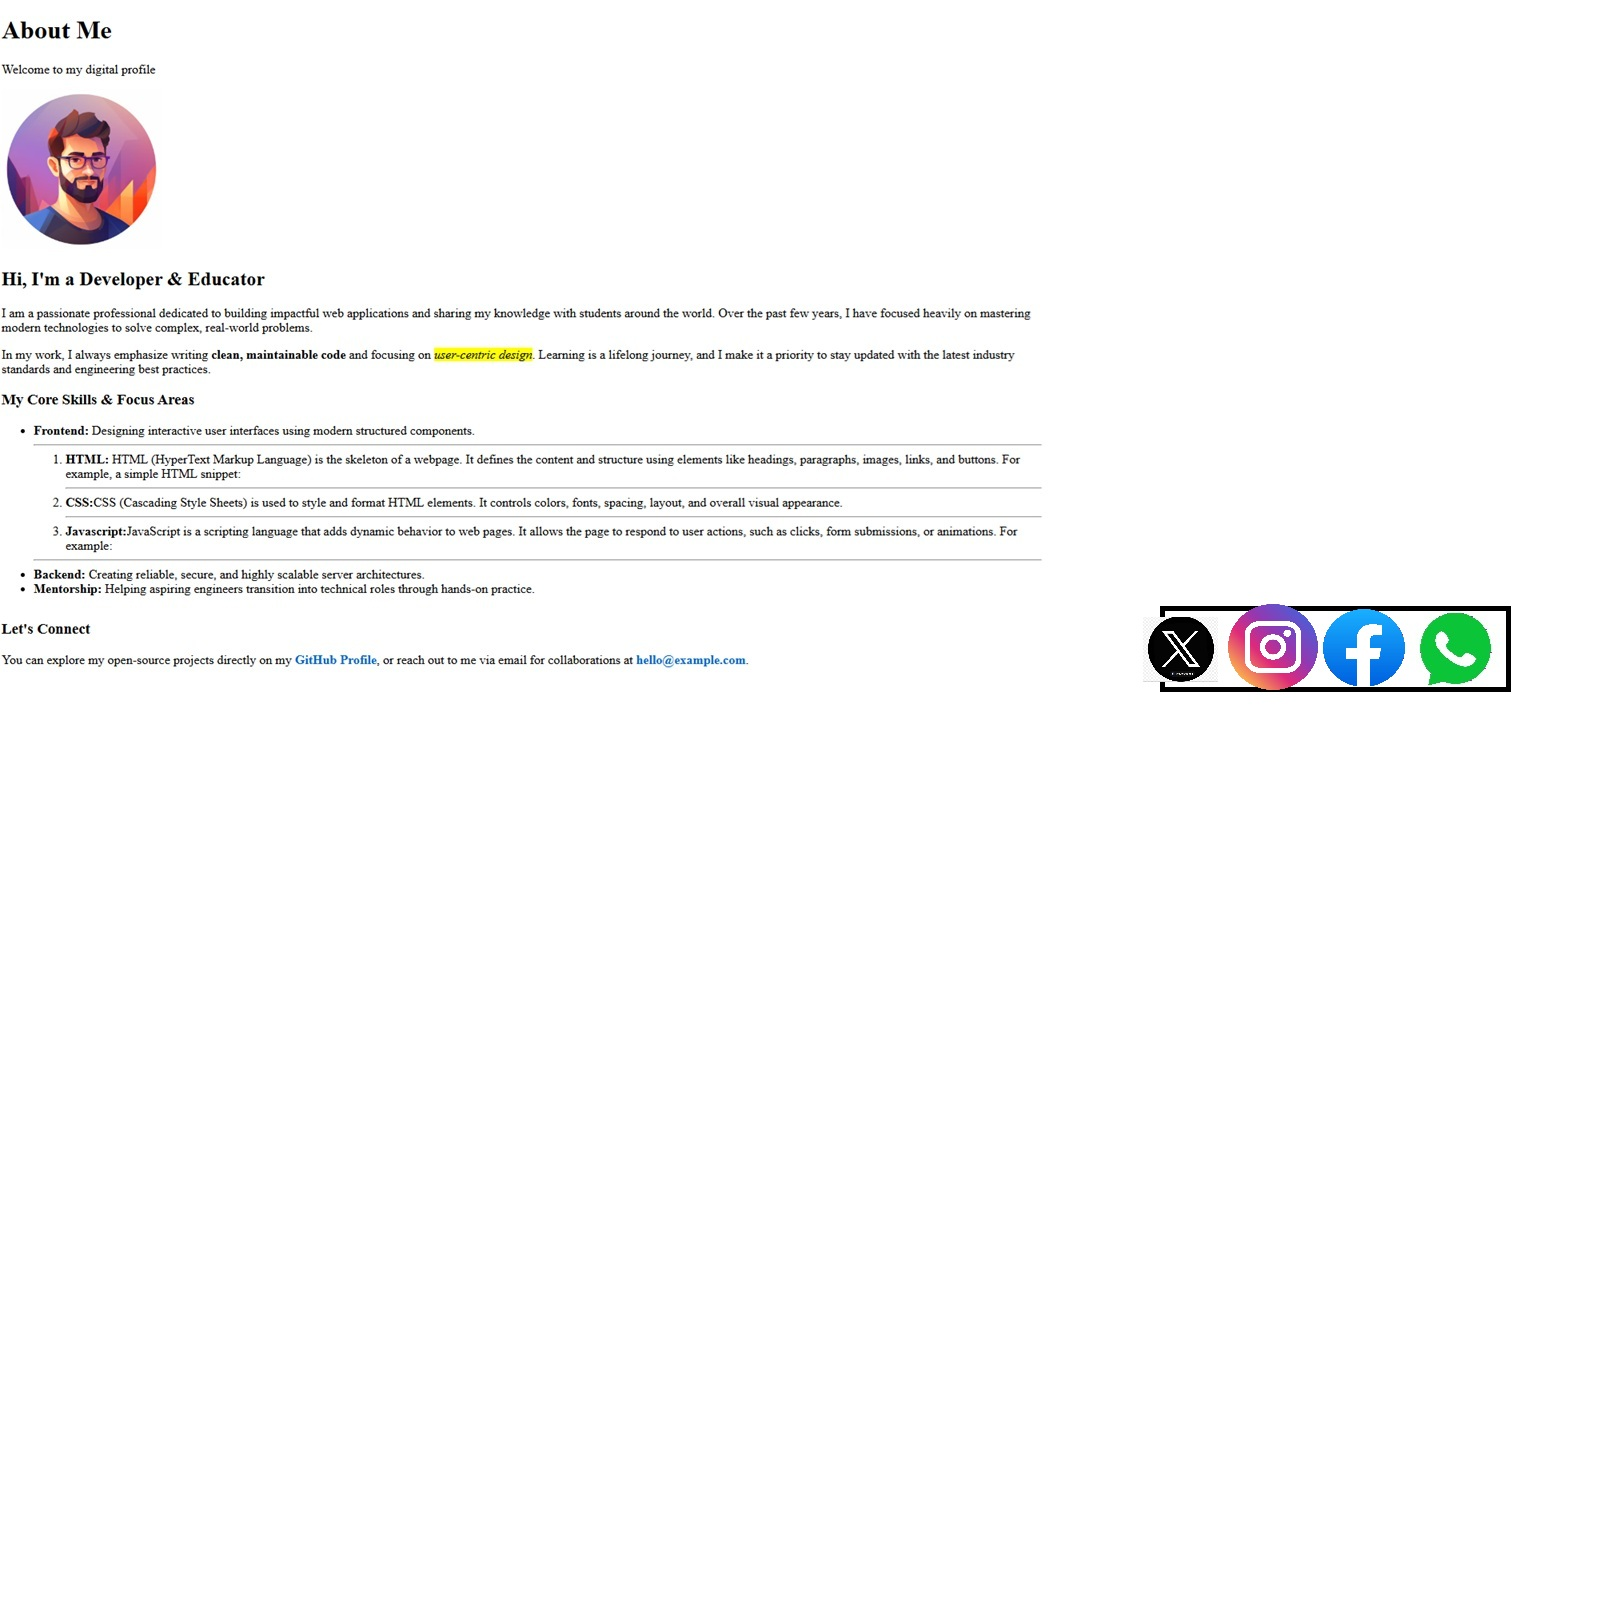
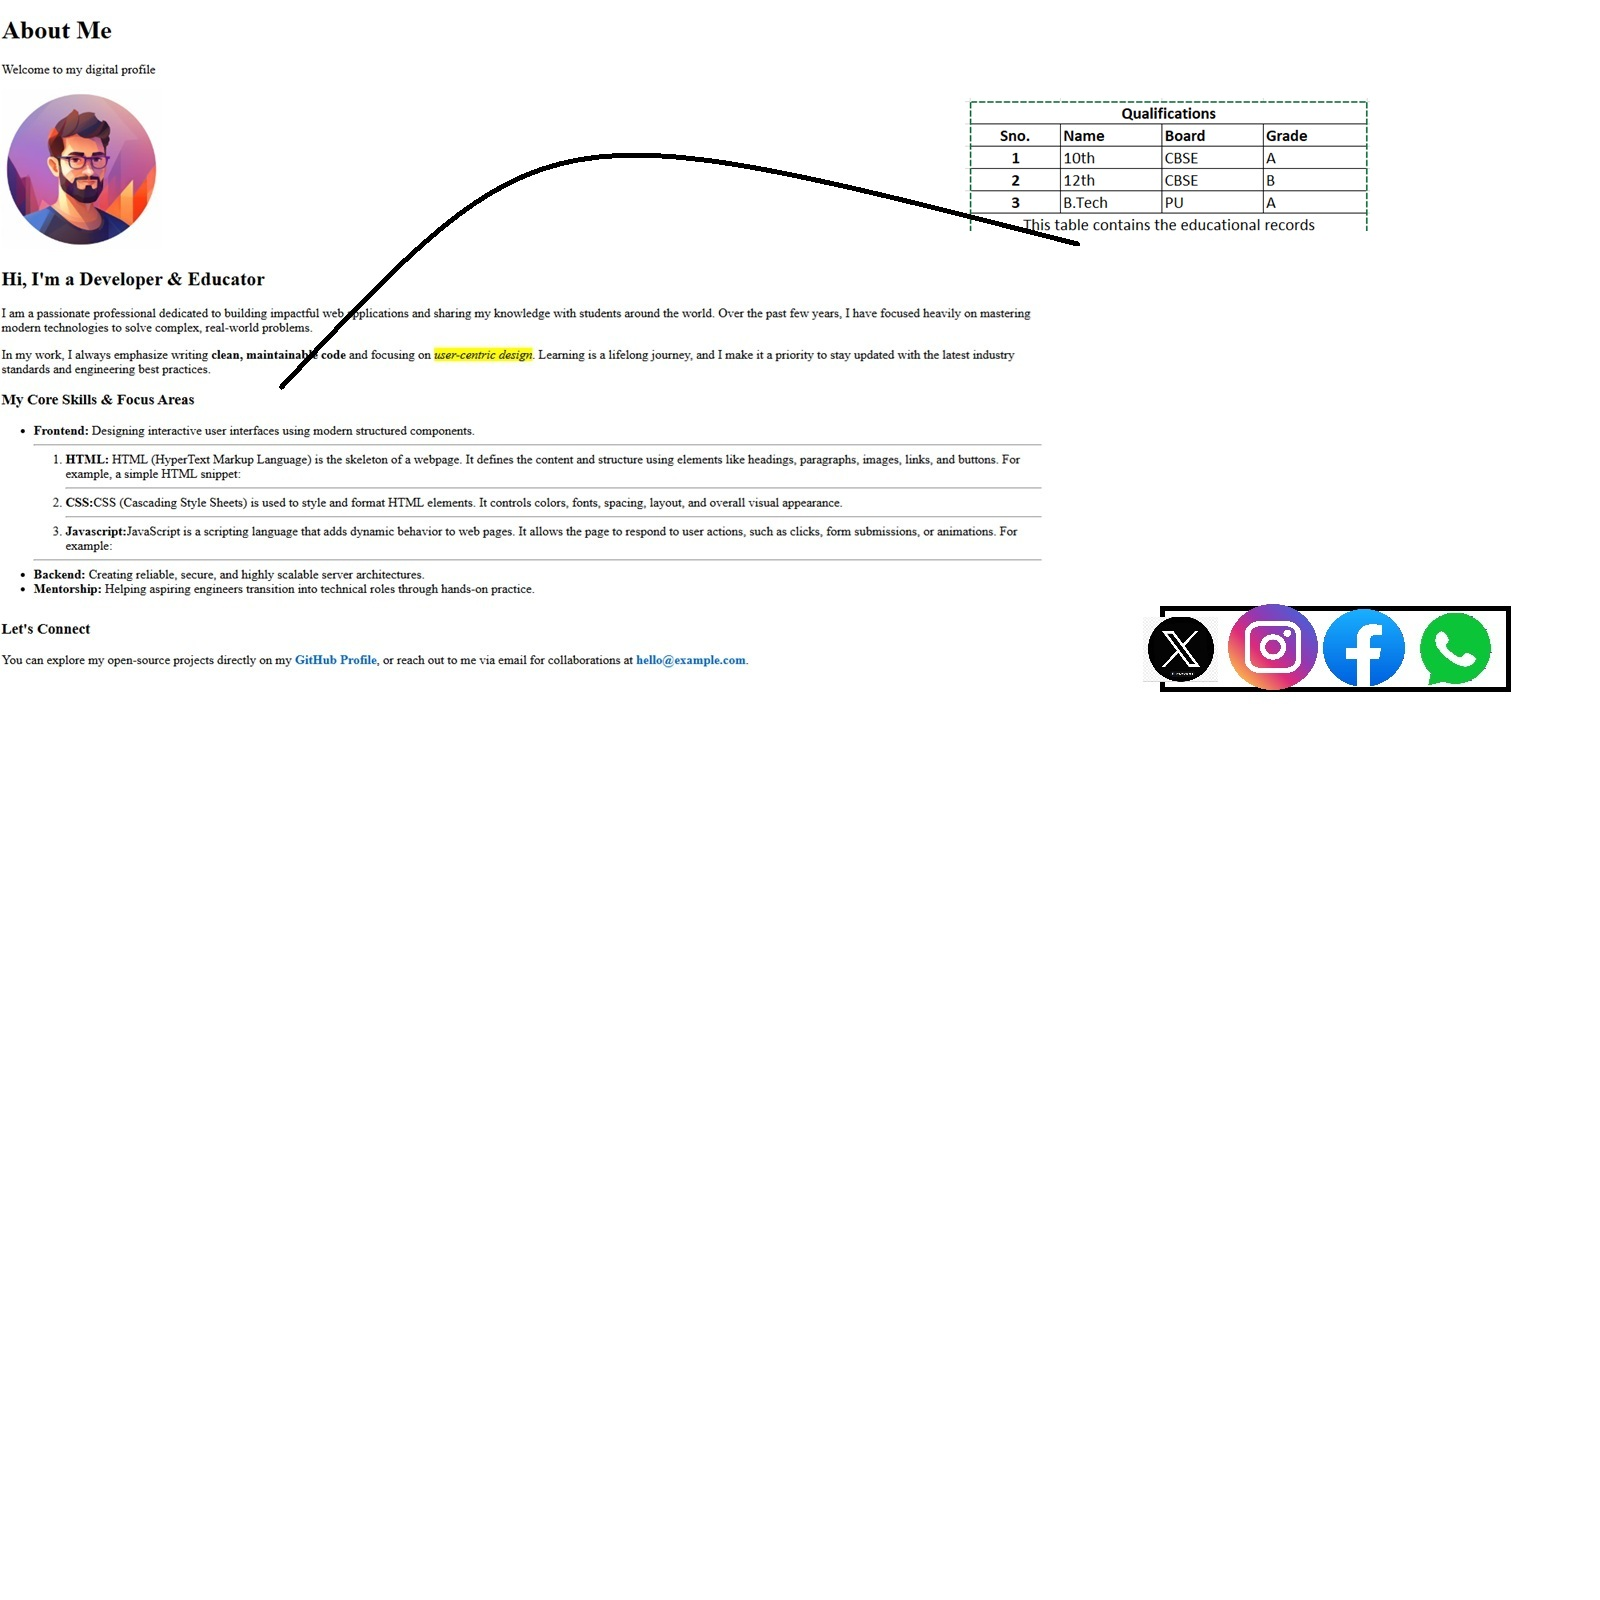
css positioning

Changed region(s): [[0.5938, 0.0625, 0.8438, 0.1562], [0.4375, 0.0938, 0.5312, 0.125], [0.3125, 0.0938, 0.375, 0.125]]

diff --git a/CSS/PractiseProject/ProfilePage.html b/CSS/PractiseProject/ProfilePage.html
@@ -1,0 +1,55 @@
+<!doctype html>
+<html lang="en">
+  <head>
+    <meta charset="UTF-8" />
+    <meta name="viewport" content="width=device-width, initial-scale=1.0" />
+    <title>Portfolio</title>
+  </head>
+  <body>
+    <h2>About Me</h2>
+    <p>Welcome to my Digital Profile</p>
+
+    <img src="" alt="" />
+
+    <h3>Hi, I'm a Developer & Educator</h3>
+    <p>
+      I am a passionate professional dedicated to building impactful web
+      applications and sharing my knowledge with students around the world. Over
+      the past few years, I have focused heavily on mastering modern
+      technologies to solve complex, real-world problems.
+    </p>
+
+    <p>
+      In my work, I always emphasize writing clean, maintainable code and
+      focusing on user-centric design. Learning is a lifelong journey, and I
+      make it a priority to stay updated with the latest industry standards and
+      engineering best practices.
+    </p>
+
+    <h4>My Core Skills & Focus Areas</h4>
+    <ul>
+      <li>
+        <strong>Frontend:</strong>
+        Designing interactive user interfaces using modern structured
+        components.
+      </li>
+      <li>
+        <strong>Backend:</strong> Creating reliable, secure, and highly scalable
+        server architectures.
+      </li>
+      <li>
+        <strong>Mentorship</strong>: Helping aspiring engineers transition into
+        technical roles through hands-on practice. Let's Connect
+      </li>
+    </ul>
+
+    <h4>My Qualification</h4>
+
+    <h4>Let's Connect</h4>
+    <p>
+      You can explore my open-source projects directly on my
+      <a href="">GitHub Profile</a>, or reach out to me via email for
+      collaboration at <a href="">[email redacted]</a>
+    </p>
+  </body>
+</html>